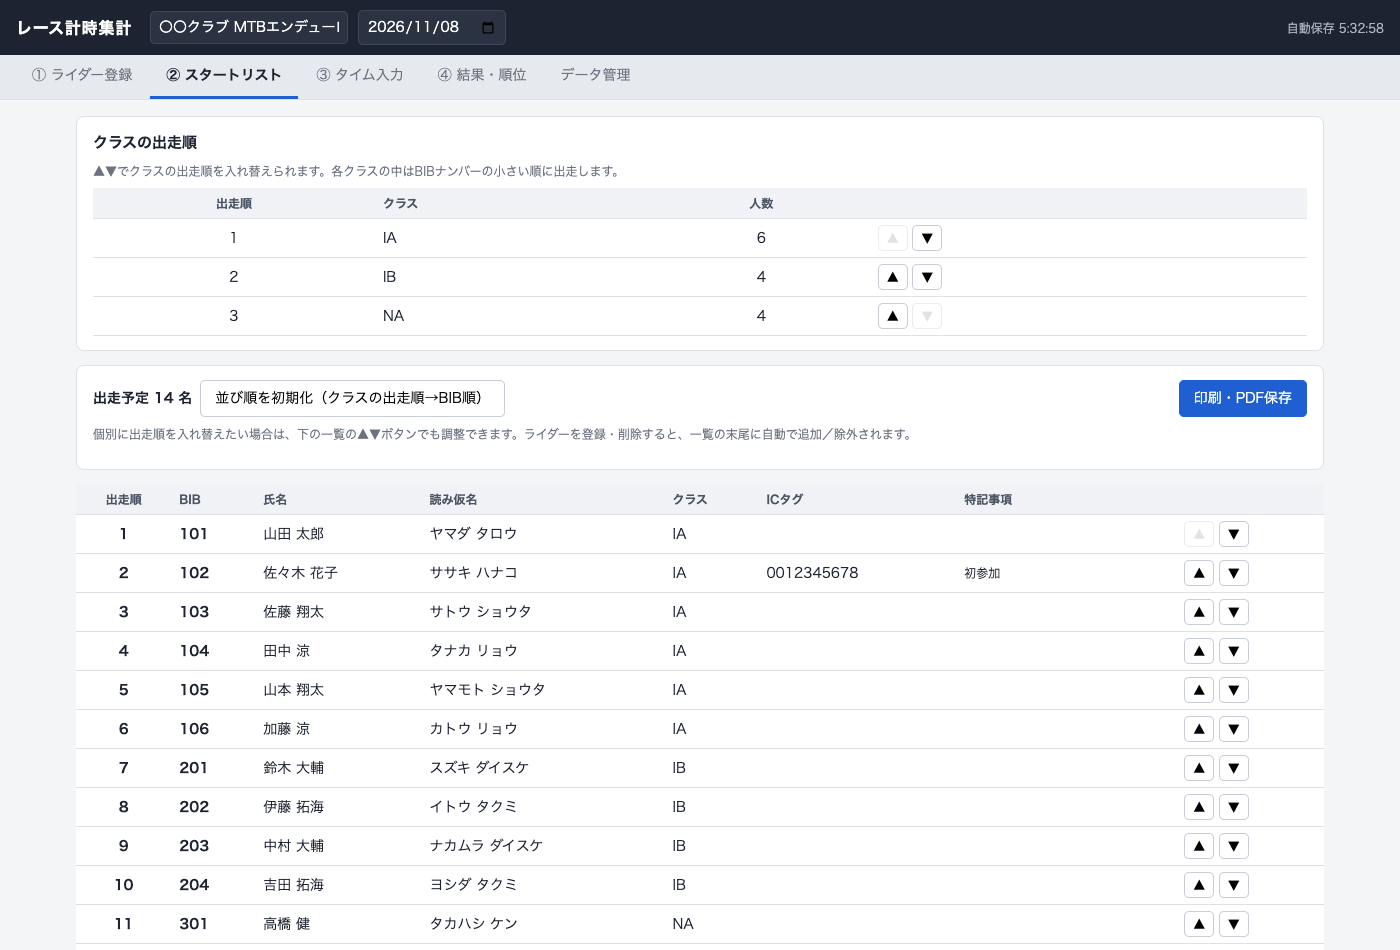
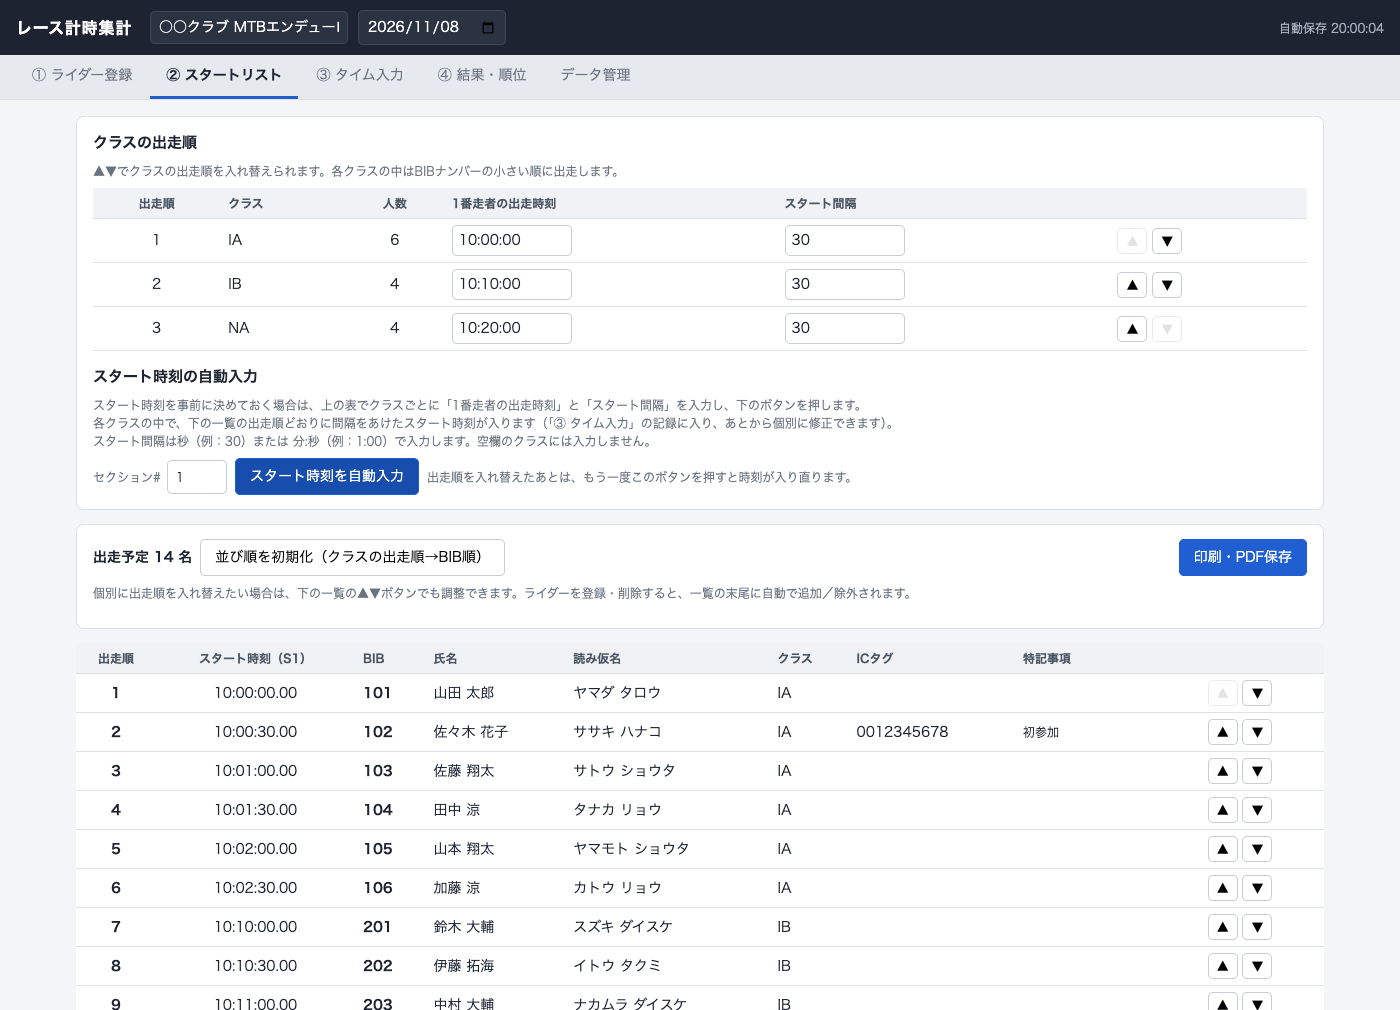
スタートリストに「スタート時刻の自動入力」を追加
クラスごとに1番走者の出走時刻とスタート間隔を指定し、出走順どおりに
各走者のスタート時刻を指定セクションの記録へ入力できるようにした。
スタートリストにスタート時刻の列を追加（印刷にも出る）。

diff --git a/js/app.js b/js/app.js
@@ -15,17 +15,21 @@ const fmtClockFull=Core.fmtClockFull;
 const compute=()=>Core.compute(S);
 
 let S=blank();
-function blank(){return {version:2,event:{name:'',date:''},settings:{prec:2},classes:[],riders:[],startOrder:[],startClassOrder:[],runs:[]};}
+function blank(){return {version:2,event:{name:'',date:''},settings:{prec:2},classes:[],riders:[],startOrder:[],startClassOrder:[],startPlan:{sec:'1',classes:{}},runs:[]};}
 
 /* ---------- 保存 ---------- */
 // 旧バックアップを補う：
 // ・v1以前：classes/startOrderが無い → 補完
+// ・startPlan（スタート時刻の自動入力の設定）が無い → 空の設定を補完（versionは2のまま。項目の追加のみ）
 // ・v1：classesが文字列配列 → {name,digit}形式へ変換（digitは未設定=null）
 function migrate(){
   if(!Array.isArray(S.classes))S.classes=[];
   S.classes=S.classes.map(c=>typeof c==='string'?{name:c,digit:null}:{name:c.name,digit:c.digit??null});
   if(!Array.isArray(S.startOrder))S.startOrder=[];
   if(!Array.isArray(S.startClassOrder))S.startClassOrder=[];
+  if(!S.startPlan||typeof S.startPlan!=='object')S.startPlan={sec:'1',classes:{}};
+  if(!S.startPlan.classes||typeof S.startPlan.classes!=='object')S.startPlan.classes={};
+  if(!S.startPlan.sec)S.startPlan.sec='1';
   if(!S.classes.length&&S.riders.length)S.classes=[...new Set(S.riders.map(r=>r.cls).filter(Boolean))].sort(nat).map(name=>({name,digit:null}));
   S.version=2;
   syncStartClassOrder();syncStartOrder();
@@ -92,6 +96,7 @@ function renameCls(i){
   const old=cur.name;cur.name=v;
   S.riders.forEach(r=>{if(r.cls===old)r.cls=v;});
   S.startClassOrder=S.startClassOrder.map(n=>n===old?v:n);
+  if(S.startPlan.classes[old]){S.startPlan.classes[v]=S.startPlan.classes[old];delete S.startPlan.classes[old];}
   save();renderClasses();renderRiders();renderStartList();
 }
 function setClsDigit(i){
@@ -270,6 +275,7 @@ function syncStartClassOrder(){
   const known=new Set(S.startClassOrder);
   const missing=[...names].filter(n=>!known.has(n)).sort(Core.clsComparator(S.classes));
   S.startClassOrder.push(...missing);
+  Object.keys(S.startPlan.classes).forEach(n=>{if(!names.has(n))delete S.startPlan.classes[n];});
 }
 function syncStartOrder(){
   const ids=new Set(S.riders.map(r=>r.uid));
@@ -299,24 +305,57 @@ $('#btnStartPrint').onclick=()=>{renderStartList();printTab('start');};
 // 並び替え（▲▼・初期化）はsave()済みの前提で呼ぶ。登録・削除側は先にsyncStartOrder()してから保存する。
 function renderStartClassOrder(){
   const list=S.startClassOrder;
-  $('#startClsTable').innerHTML=`<tr><th class="c">出走順</th><th>クラス</th><th class="c">人数</th><th class="noprint"></th></tr>`+
-    list.map((name,i)=>`<tr><td class="c">${i+1}</td><td>${esc(name)}</td><td class="c">${S.riders.filter(r=>(r.cls||NOCLS)===name).length}</td>
+  $('#startClsTable').innerHTML=`<tr><th class="c">出走順</th><th>クラス</th><th class="c">人数</th><th>1番走者の出走時刻</th><th>スタート間隔</th><th class="noprint"></th></tr>`+
+    list.map((name,i)=>{const p=S.startPlan.classes[name]||{};return `<tr><td class="c">${i+1}</td><td>${esc(name)}</td><td class="c">${S.riders.filter(r=>(r.cls||NOCLS)===name).length}</td>
+      <td><input class="sp" data-i="${i}" data-k="first" value="${esc(fmtClockFull(p.first))}" placeholder="10:00:00" onchange="setStartPlan(this)"></td>
+      <td><input class="sp" data-i="${i}" data-k="interval" value="${esc(Core.fmtInterval(p.interval))}" placeholder="30（秒）" onchange="setStartPlan(this)"></td>
       <td class="noprint"><button class="b s" ${i===0?'disabled':''} onclick="moveStartClass(${i},-1)">▲</button>
-      <button class="b s" ${i===list.length-1?'disabled':''} onclick="moveStartClass(${i},1)">▼</button></td></tr>`).join('')+
-    (list.length?'':`<tr><td colspan="4" class="muted">クラスが登録されていません</td></tr>`);
+      <button class="b s" ${i===list.length-1?'disabled':''} onclick="moveStartClass(${i},1)">▼</button></td></tr>`;}).join('')+
+    (list.length?'':`<tr><td colspan="6" class="muted">クラスが登録されていません</td></tr>`);
+  $('#sp_sec').value=S.startPlan.sec;
 }
+// スタート時刻の自動入力：クラスごとの「1番走者の出走時刻」「スタート間隔」を S.startPlan に保存し、
+// ボタンを押したときに、指定セクションの runs のスタート時刻へ反映する（計算は core.js）。
+function setStartPlan(el){
+  const name=S.startClassOrder[+el.dataset.i],k=el.dataset.k;
+  const v=k==='first'?parseClock(el.value):Core.parseInterval(el.value);
+  el.classList.toggle('bad',Number.isNaN(v));
+  if(Number.isNaN(v))return; // 不正な入力は保存しない（赤枠で知らせる）
+  const p=S.startPlan.classes[name]||(S.startPlan.classes[name]={first:null,interval:null});
+  p[k]=v;
+  if(p.first==null&&p.interval==null)delete S.startPlan.classes[name];
+  el.value=k==='first'?fmtClockFull(v):Core.fmtInterval(v);
+  save();
+}
+$('#sp_sec').onchange=()=>{const v=z2h($('#sp_sec').value);if(!v){$('#sp_sec').value=S.startPlan.sec;return;}S.startPlan.sec=v;save();renderStartList();};
+$('#btnStartPlan').onclick=()=>{
+  if(document.querySelector('#startClsTable input.bad')){alert('出走時刻またはスタート間隔の形式が正しくありません（赤枠の欄）。修正してからもう一度押してください。');return;}
+  const sec=S.startPlan.sec;
+  const half=S.startClassOrder.filter(n=>{const p=S.startPlan.classes[n];return p&&(p.first==null)!==(p.interval==null);});
+  if(half.length){alert(`クラス「${half.join('」「')}」は、出走時刻とスタート間隔の片方しか入力されていません。両方入力するか、両方空欄にしてください。`);return;}
+  const list=Core.planStartTimes(S);
+  if(!list.length){alert('スタート時刻を入れる対象がありません。クラスごとに「1番走者の出走時刻」と「スタート間隔」を入力してください。');return;}
+  const res=Core.applyStartTimes(S.runs,list,sec,uid);
+  if(res.overwritten&&!confirm(`セクション${sec}には、既に別のスタート時刻が入っている記録が${res.overwritten}件あります。\n今回の設定で上書きしますか？（ゴール時刻・状態は変わりません）`))return;
+  S.runs=res.runs;save();renderStartList();renderRuns();
+  alert(`セクション${sec}のスタート時刻を${list.length}名分入力しました。`+
+    (res.overwritten?`\n（うち${res.overwritten}件は既存のスタート時刻を上書き）`:'')+
+    `\n「③ タイム入力」の一覧で確認・修正できます。`);
+};
 function renderStartList(){
   renderStartClassOrder();
   const list=S.startOrder.map(riderOf).filter(Boolean);
+  const sec=S.startPlan.sec;
+  const stOf=new Map(S.runs.filter(x=>x.sec===sec).map(x=>[x.rider,x.start]));
   $('#sCount').textContent=`出走予定 ${list.length} 名`;
   $('#sTitle').textContent=(S.event.name||'レース')+' スタートリスト';
   $('#sSub').textContent=[S.event.date,'出力 '+new Date().toLocaleString('ja-JP')].filter(Boolean).join('　');
-  $('#sTable').innerHTML=`<tr><th class="c">出走順</th><th>BIB</th><th>氏名</th><th>読み仮名</th><th>クラス</th><th>ICタグ</th><th>特記事項</th><th class="noprint"></th></tr>`+
-    list.map((r,i)=>`<tr><td class="c"><b>${i+1}</b></td><td><b>${esc(r.bib)}</b></td><td>${esc(r.name)}</td><td>${esc(r.kana)}</td><td>${esc(r.cls)}</td><td>${esc(r.tag)}</td>
+  $('#sTable').innerHTML=`<tr><th class="c">出走順</th><th class="c">スタート時刻（S${esc(sec)}）</th><th>BIB</th><th>氏名</th><th>読み仮名</th><th>クラス</th><th>ICタグ</th><th>特記事項</th><th class="noprint"></th></tr>`+
+    list.map((r,i)=>`<tr><td class="c"><b>${i+1}</b></td><td class="c">${fmtClock(stOf.get(r.uid))}</td><td><b>${esc(r.bib)}</b></td><td>${esc(r.name)}</td><td>${esc(r.kana)}</td><td>${esc(r.cls)}</td><td>${esc(r.tag)}</td>
       <td class="note">${esc(r.note)}</td><td class="noprint">
       <button class="b s" ${i===0?'disabled':''} onclick="moveStart('${r.uid}',-1)">▲</button>
       <button class="b s" ${i===list.length-1?'disabled':''} onclick="moveStart('${r.uid}',1)">▼</button></td></tr>`).join('')+
-    (list.length?'':`<tr><td colspan="8" class="muted">ライダーが登録されていません</td></tr>`);
+    (list.length?'':`<tr><td colspan="9" class="muted">ライダーが登録されていません</td></tr>`);
 }
 
 /* ---------- ③ タイム ---------- */

diff --git a/js/core.js b/js/core.js
@@ -287,9 +287,83 @@
     return { runs, added, merged, unchanged, conflicts, unmatched };
   }
 
+  /**
+   * スタート間隔の文字列 → ミリ秒
+   * 受け付ける形式: "30"（秒）, "30.5", "1:30"（分:秒）, "1:30.5"（全角可）
+   * @returns {number|null} null=空欄, NaN=不正
+   */
+  function parseInterval(s) {
+    s = z2h(s);
+    if (!s) return null;
+    const m = s.match(/^(?:(\d{1,3}):)?(\d{1,4})(?:[.,](\d{1,3}))?$/);
+    if (!m) return NaN;
+    const mi = +(m[1] || 0), se = +m[2], f = +((m[3] || '') + '000').slice(0, 3);
+    if (m[1] != null && se > 59) return NaN;
+    return (mi * 60 + se) * 1000 + f;
+  }
+
+  /** スタート間隔の表示（入力欄用）。60秒未満は秒 "30" / "30.5"、それ以上は "1:30" */
+  function fmtInterval(ms) {
+    if (ms == null) return '';
+    const frac = ms % 1000 ? '.' + String(ms % 1000).padStart(3, '0').replace(/0+$/, '') : '';
+    const se = Math.floor(ms / 1000);
+    return se < 60 ? se + frac : `${Math.floor(se / 60)}:${String(se % 60).padStart(2, '0')}${frac}`;
+  }
+
+  /**
+   * クラスごとの「1番走者の出走時刻」「スタート間隔」から、各走者のスタート時刻を求める。
+   * 各クラスの中の順番は startOrder（出走順）に従う。出走時刻・間隔のどちらかが未設定のクラスは対象外。
+   * 24時を超えた場合は翌日の時刻（0時からのms）に折り返す。
+   * @param {object} state { riders, startOrder, startPlan:{ classes:{ [クラス名]:{first, interval} } } }
+   * @returns {{rider:string, start:number}[]} 出走順に並んだ（riders.uid, スタート時刻ms）の配列
+   */
+  function planStartTimes(state) {
+    const plan = (state.startPlan && state.startPlan.classes) || {};
+    const byUid = new Map((state.riders || []).map(r => [r.uid, r]));
+    const count = new Map(), out = [];
+    for (const u of (state.startOrder || [])) {
+      const r = byUid.get(u);
+      if (!r) continue;
+      const cls = r.cls || NOCLS, p = plan[cls];
+      if (!p || p.first == null || p.interval == null) continue;
+      const i = count.get(cls) || 0;
+      count.set(cls, i + 1);
+      out.push({ rider: u, start: (p.first + i * p.interval) % DAY_MS });
+    }
+    return out;
+  }
+
+  /**
+   * planStartTimes() の結果を、指定セクションの runs のスタート時刻に反映する（state は変更せず、新しい runs を返す）。
+   * 記録が無ければ新規追加（ゴール未入力・状態OK）、あればスタート時刻だけを書き換える（ゴール・状態・特記事項は残す）。
+   * @param {object[]} runs 現在の runs
+   * @param {{rider:string, start:number}[]} list planStartTimes() の結果
+   * @param {string} sec セクション#
+   * @param {() => string} [mkUid] 新規runに使うuid生成関数
+   * @returns {{runs:object[], added:number, filled:number, overwritten:number, unchanged:number}}
+   *   filled=スタート未入力の既存記録に入れた件数、overwritten=別の時刻が入っていた記録を書き換えた件数
+   */
+  function applyStartTimes(runs, list, sec, mkUid) {
+    const genUid = mkUid || (() => Date.now().toString(36) + Math.random().toString(36).slice(2, 7));
+    const out = (runs || []).map(r => ({ ...r }));
+    const byRider = new Map(out.filter(r => r.sec === sec).map(r => [r.rider, r]));
+    let added = 0, filled = 0, overwritten = 0, unchanged = 0;
+    for (const { rider, start } of list) {
+      const ex = byRider.get(rider);
+      if (!ex) {
+        const row = { uid: genUid(), rider, sec, start, goal: null, status: 'OK', note: '' };
+        out.push(row); byRider.set(rider, row); added++;
+      } else if (ex.start == null) { ex.start = start; filled++; }
+      else if (ex.start !== start) { ex.start = start; overwritten++; }
+      else unchanged++;
+    }
+    return { runs: out, added, filled, overwritten, unchanged };
+  }
+
   const Core = {
     DAY_MS, NOCLS, STATUS, nat, z2h, parseClock, fmtClock, fmtClockFull, fmtDur, elapsed, compute, csvCell, toCsv, parseCsv,
     clsComparator, isValidBib, bibRange, classForBib, nextBibInClass, mergeSectionData,
+    parseInterval, fmtInterval, planStartTimes, applyStartTimes,
   };
   if (typeof module !== 'undefined' && module.exports) module.exports = Core;
   else root.Core = Core;

diff --git a/docs/manual.html b/docs/manual.html
@@ -118,7 +118,7 @@
   <div class="shots">
     <div class="shot">
       <img src="images/02-start-list.png" alt="スタートリスト画面（通常表示）">
-      <div class="cap">スタートリスト画面：クラスの出走順＋出走リスト</div>
+      <div class="cap">スタートリスト画面：クラスの出走順・スタート時刻の設定＋出走リスト</div>
     </div>
     <div class="shot">
       <img src="images/02b-start-list-print.png" alt="スタートリストの印刷イメージ">
@@ -129,7 +129,9 @@
     <li>画面上部の<b>「クラスの出走順」</b>を▲▼で設定する（①の参加クラス設定の表示順とは別管理）。各クラスの中は自動でBIBナンバーの小さい順になる。</li>
     <li>下の出走リストは「クラスの出走順→BIBの順」で自動的に並ぶ。「並び順を初期化」でいつでもこの順番に戻せる。</li>
     <li>個々のライダーを入れ替えたい場合は、一覧の▲▼で手動調整できる。ライダーの登録・削除に合わせて一覧も自動更新される。</li>
-    <li>「印刷・PDF保存」で、スタッフが現場で使う紙の出走リストを作成する。</li>
+    <li><b>スタート時刻を事前に決めておく場合</b>は、「クラスの出走順」の表でクラスごとに<b>「1番走者の出走時刻」</b>と<b>「スタート間隔」</b>（秒で 30、または 分:秒で 1:00）を入力し、<b>「スタート時刻を自動入力」</b>を押す。各クラスの中で、一覧の出走順どおりに間隔をあけたスタート時刻が、指定したセクションの記録として入る（空欄のクラスには入らない）。</li>
+    <li>入ったスタート時刻は「③ タイム入力」の記録そのもの。当日はゴール時刻だけ入力すればよく、出走がずれたライダーは③で個別に修正する。出走順を入れ替えたら、もう一度ボタンを押して入れ直す。</li>
+    <li>「印刷・PDF保存」で、スタッフが現場で使う紙の出走リストを作成する（スタート時刻も印刷される）。</li>
   </ul>
 </section>
 

diff --git a/index.html b/index.html
@@ -93,6 +93,15 @@
     <h2 style="margin:0 0 8px;font-size:15px">クラスの出走順</h2>
     <p class="hint" style="margin:0 0 8px">▲▼でクラスの出走順を入れ替えられます。各クラスの中はBIBナンバーの小さい順に出走します。</p>
     <div class="tw"><table id="startClsTable"></table></div>
+    <h2 style="margin:14px 0 8px;font-size:15px">スタート時刻の自動入力</h2>
+    <p class="hint" style="margin:0 0 8px">スタート時刻を事前に決めておく場合は、上の表でクラスごとに「1番走者の出走時刻」と「スタート間隔」を入力し、下のボタンを押します。<br>
+      各クラスの中で、下の一覧の出走順どおりに間隔をあけたスタート時刻が入ります（「③ タイム入力」の記録に入り、あとから個別に修正できます）。<br>
+      スタート間隔は秒（例：30）または 分:秒（例：1:00）で入力します。空欄のクラスには入力しません。</p>
+    <div class="btns">
+      <label style="flex-direction:row;align-items:center;gap:6px">セクション#<input id="sp_sec" value="1" style="width:60px"></label>
+      <button class="b p" type="button" id="btnStartPlan">スタート時刻を自動入力</button>
+      <span class="hint">出走順を入れ替えたあとは、もう一度このボタンを押すと時刻が入り直ります。</span>
+    </div>
   </div>
   <div class="card noprint">
     <div class="btns">

diff --git a/css/style.css b/css/style.css
@@ -28,6 +28,7 @@ button.p:hover{background:#174ead}
 button.d{color:var(--warn)}
 button.s{padding:3px 8px;font-size:12px}
 .hint{font-size:12px;color:var(--muted)}
+input.sp{width:120px;padding:4px 6px}
 .info{font-size:13px;padding:6px 0;min-height:1.6em}
 .info .ok{color:var(--ok)}.info .ng{color:var(--warn)}
 .tw{overflow-x:auto}

diff --git a/CLAUDE.md b/CLAUDE.md
@@ -12,7 +12,7 @@
 
 ## 構成
 ```
-index.html      画面の骨組み（タブ: ①ライダー登録 ②スタートリスト ③タイム入力 ④結果・順位 / データ管理）
+index.html      画面の骨組み（タブ: ①ライダー登録 ②スタートリスト（出走順・スタート時刻の自動入力） ③タイム入力 ④結果・順位 / データ管理）
 css/style.css   スタイル（印刷用 @media print を含む。A4横）
 js/core.js      計算ロジック（DOMに依存しない純粋関数）。ブラウザでは window.Core、Nodeでは require
 js/app.js       画面処理。状態は変数 S に集約 → 変更したら save() → render*()
@@ -40,6 +40,7 @@ S = {
   riders:    [{ uid, bib, name, kana, cls, tag, note }],
   startOrder:      [uid, uid, ...],           // ②スタートリストの出走順（riders.uidの配列）
   startClassOrder: [clsName, ...],            // ②スタートリストのクラスの出走順（クラス名の配列。未設定はCore.NOCLS）
+  startPlan: { sec, classes: { [clsName]: { first, interval } } },  // ②スタート時刻の自動入力の設定（下記）
   runs:      [{ uid, rider /*riders.uid*/, sec, start, goal, status, note }],
 }
 ```
@@ -60,6 +61,14 @@ S = {
 - `startClassOrder` は①の「参加クラス設定」の表示順（結果表用）とは**独立**した、スタートリスト専用のクラスの出走順。②スタートリスト画面の「クラスの出走順」で▲▼のみで設定・変更する（個々のライダーを並べ替える必要はない）。▲▼で入れ替えると、その場で `startOrder` が「クラスの出走順→BIBの自然順」に再生成される。
   - `classes` に登録されているクラス（まだ誰も登録していなくても）＋ クラス未設定のライダーがいる場合は `Core.NOCLS` を含む。クラスの追加／削除／リネームに追従する（リネームは名称をそのまま引き継ぐ）。
   - 空／未定義の旧バックアップは読み込み時に `classes` の並び順から自動生成される。
+- `startPlan` は②スタートリストの「スタート時刻の自動入力」の設定。`sec`＝入力先のセクション#（文字列。既定 `'1'`）、
+  `classes[クラス名]`＝`{ first: 1番走者の出走時刻（0時からのms）, interval: スタート間隔（ms） }`（`null`＝未入力。両方未入力のクラスはキーごと持たない。クラス未設定は `Core.NOCLS` がキー）。
+  - 「スタート時刻を自動入力」ボタンを押したときだけ、`startOrder` の順に各クラス内で `first + i*interval` を計算し、`runs` の該当セクションの `start` に書き込む
+    （記録が無ければ `goal:null, status:'OK'` で新規追加。既にあればスタート時刻だけ書き換え、ゴール・状態・特記事項は残す。別の時刻が入っている記録があれば上書き確認）。
+    **自動では再計算しない**（出走順や設定を変えたら、もう一度ボタンを押す）。片方だけ入力されたクラスがあると実行を拒否する。
+  - スタート間隔の入力は秒（`30`）または 分:秒（`1:00`）。②の一覧の「スタート時刻」列は `startPlan.sec` のセクションの `runs[].start` を表示している（予定時刻を別に持ってはいない）。
+  - クラスのリネーム・削除に追従する。`startPlan` の無い旧バックアップは `migrate()` が空の設定を補う（項目の追加のみなので `version` は2のまま）。
+  - 計算は `core.js` の `parseInterval()` / `fmtInterval()` / `planStartTimes()` / `applyStartTimes()`（DOM非依存・テスト済み）。画面側は `app.js`（`setStartPlan` / `#btnStartPlan` / `#sp_sec`）。
 
 ## CSV取り込み（エントリーリスト）
 - ①ライダー登録タブの「CSVから取り込む」で、氏名・読み仮名などが入ったCSVファイル（任意のレイアウト）からライダーを一括登録できる。

diff --git a/docs/manual.md b/docs/manual.md
@@ -42,6 +42,10 @@
 - 下の出走リストは、クラスの出走順→BIBの順で自動的に並ぶ。「並び順を初期化」ボタンでいつでもこの順番に戻せる。
 - 下の一覧の▲▼ボタンで、個々のライダーの出走順を手動で入れ替えることもできる。
 - ライダーを登録・削除すると、一覧の末尾に自動で追加／除外される（並び替えた順序はできるだけ保たれる）。
+- **スタート時刻を事前に決めておく場合**：「クラスの出走順」の表で、クラスごとに「1番走者の出走時刻」（例：`10:00:00`）と「スタート間隔」（秒で `30`、または 分:秒で `1:00`）を入力し、「スタート時刻を自動入力」を押す。
+  - 各クラスの中で、下の一覧の出走順どおりに間隔をあけたスタート時刻が、指定したセクション#（通常は1）の記録として入る。一覧の「スタート時刻」列にも表示され、印刷にも出る。
+  - 入った時刻は「③ タイム入力」の記録そのものなので、当日はゴール時刻だけ入力すればタイムが出る。実際の出走時刻がずれたライダーは③で個別に修正する。
+  - 出走時刻・スタート間隔が空欄のクラスには入力しない。出走順を入れ替えたあとは、もう一度ボタンを押すと時刻が入り直る（既に別のスタート時刻が入っている場合は上書きの確認が出る。ゴール時刻・状態は変わらない）。
 - 「印刷・PDF保存」で、スタッフが現場で使う紙の出走リストを作成できる。
 - TODO: スタート地点での運用（コール順、欠席者の扱いなど）を記載する。
 
